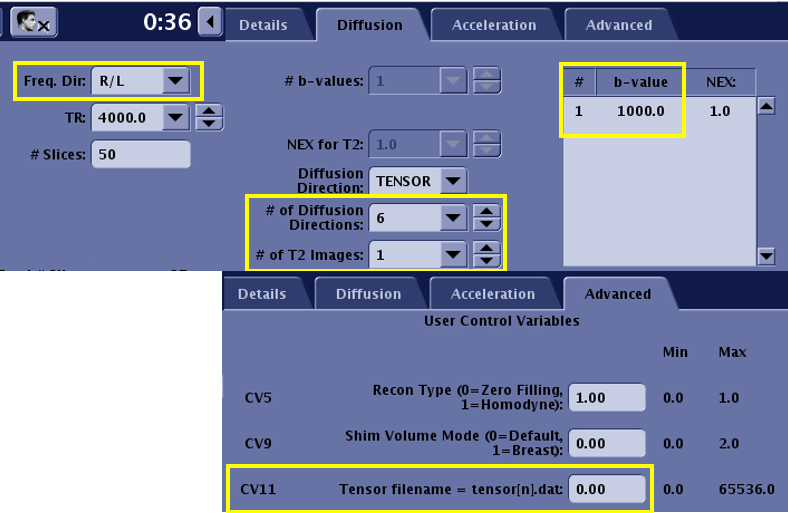
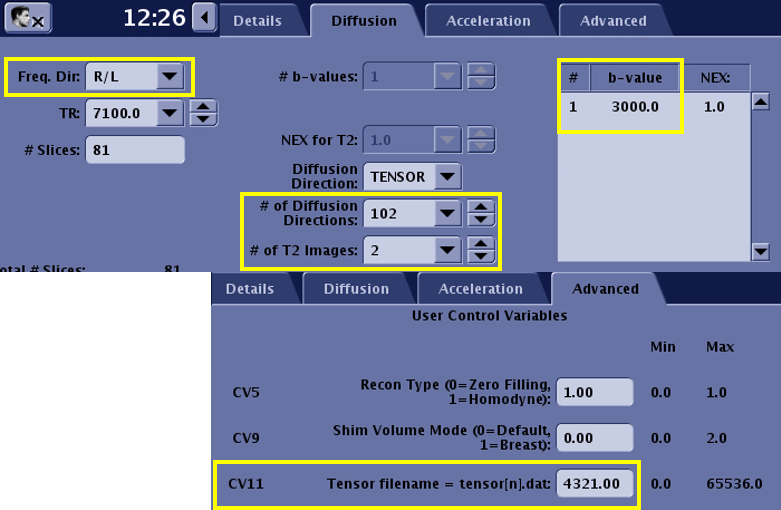
v1.0.20241028

diff --git a/streamlit_app.py b/streamlit_app.py
@@ -30,6 +30,7 @@ def read_directions_from_file(file_content, num_dirs, num_t2):
     lines = file_content.splitlines()
     b_vector = np.zeros((num_dirs + num_t2, 4))
     internal_count = 0
+    header_lines = []
 
     for line in lines:
         tokens = line.split()
@@ -40,12 +41,15 @@ def read_directions_from_file(file_content, num_dirs, num_t2):
             internal_count = 0
             continue
 
+        if line.startswith('#'):
+            header_lines.append(line)
+
         if len(tokens) > 1 and tokens[0] != "#" and internal_count < num_dirs:
             internal_count += 1
             b_vecx, b_vecy, b_vecz = map(float, tokens[:3])
             b_vector[num_t2 + internal_count - 1, 1:] = [b_vecx, b_vecy, b_vecz]
 
-    return b_vector
+    return b_vector, header_lines
 
 def convert_to_b_vector(b_vector, num_dirs, num_t2, b_val, freq):
     for idx in range(num_dirs + num_t2):
@@ -78,14 +82,49 @@ def display_and_save_b_vector(b_vector, num_dirs, num_t2):
     return bval_output, bvec_output
 
 def initialize_streamlit_components():
-    st.title("GE tensor to bval/bvec Converter (beta)")
-    st.write("Upload a JSON file to automatically extract the necessary information, or provide the values manually.")
+    st.title("GE Diffusion tensor App (beta)")
+    st.markdown('''
+            ## View/Convert GE tensor to bval/bvec
+            by Jaemin Shin, v1.0.20241028
+            ''')
 
+    
     # File upload options
     uploaded_tensor_file = st.file_uploader("Upload GE tensor file (required*)", type=["txt", "dat"])
-    uploaded_json = st.file_uploader("Upload JSON file from dcm2niix (optional)", type=["json"])
+    uploaded_json = st.file_uploader("(optional) Upload JSON file from dcm2niix to automatically extract the necessary information", type=["json"])
 
-    st.image("GEHC_UI.png", caption="Reference Image", use_column_width=True)
+    with st.expander("HOW-TO get the GE tensor file & required scan parameters"):
+        st.write("GEHC Diffusion Scan Parameter screen:")
+        st.image("GEHC_UI.png", use_column_width=True)
+        st.markdown('''
+
+            Locations of GE diffusion tensor files on scanner:
+
+            **- Prior to MR30.0:**
+            - All tensor file are saved in `/usr/g/bin`
+            
+            **- MR30.0 or later:**
+            - GE-preloaded tensor files are located in `/srv/nfs/psd/etc`
+            - User-provided tensor files should be placed in `/srv/nfs/psd/usr/etc`
+            - Precedence is given to the GE directory (`/srv/nfs/psd/etc`) when files with the same name exist in both locations
+            
+
+            **JSON sidecar from dcm2niix (v1.0.20220915+):**
+            ```json
+            {
+                ...
+                "SoftwareVersions": "30\\LX\\SIGNA_LX1.MR30.1_R01_2319.b",
+                "NumberOfDiffusionDirectionGE": 102,
+                "NumberOfDiffusionT2GE": 2,
+                "TensorFileNumberGE": 4321,
+                "PhaseEncodingDirection": "j",
+                ...
+                "ConversionSoftware": "dcm2niix",
+                "ConversionSoftwareVersion": "v1.0.20230315"
+            }
+            ''')
+
+
 
     # Set default values in case JSON is not uploaded
     num_dirs, num_t2, freq = 6, 1, "RL"  # Default values
@@ -132,6 +171,11 @@ def apply_custom_css():
             margin-bottom: 2px;
             font-family: monospace;
         }
+        .header-info {
+            font-size: 12px;
+            color: gray;
+            font-family: monospace;
+        }
         </style>
     """
     st.markdown(custom_css, unsafe_allow_html=True)
@@ -143,13 +187,19 @@ def main():
     if uploaded_tensor_file is not None:
         file_content = uploaded_tensor_file.read().decode("utf-8")
         verbose = st.checkbox("Verbose Output", key='verbose')
+        display_header = st.checkbox("Display header", key='display_header')
 
-        b_vector = read_directions_from_file(file_content, num_dirs, num_t2)
+        b_vector, header_lines = read_directions_from_file(file_content, num_dirs, num_t2)
         convert_to_b_vector(b_vector, num_dirs, num_t2, b_val, freq)
         bval_output, bvec_output = display_and_save_b_vector(b_vector, num_dirs, num_t2)
 
         # Apply custom CSS
         apply_custom_css()
+
+        if display_header:
+            st.write("### Header Information:")
+            for header_line in header_lines:
+                st.markdown(f"<div class='header-info'>{header_line}</div>", unsafe_allow_html=True)
 
         st.write("### Summary of b-values:")
         b_values = [int(float(b)) for b in bval_output]
